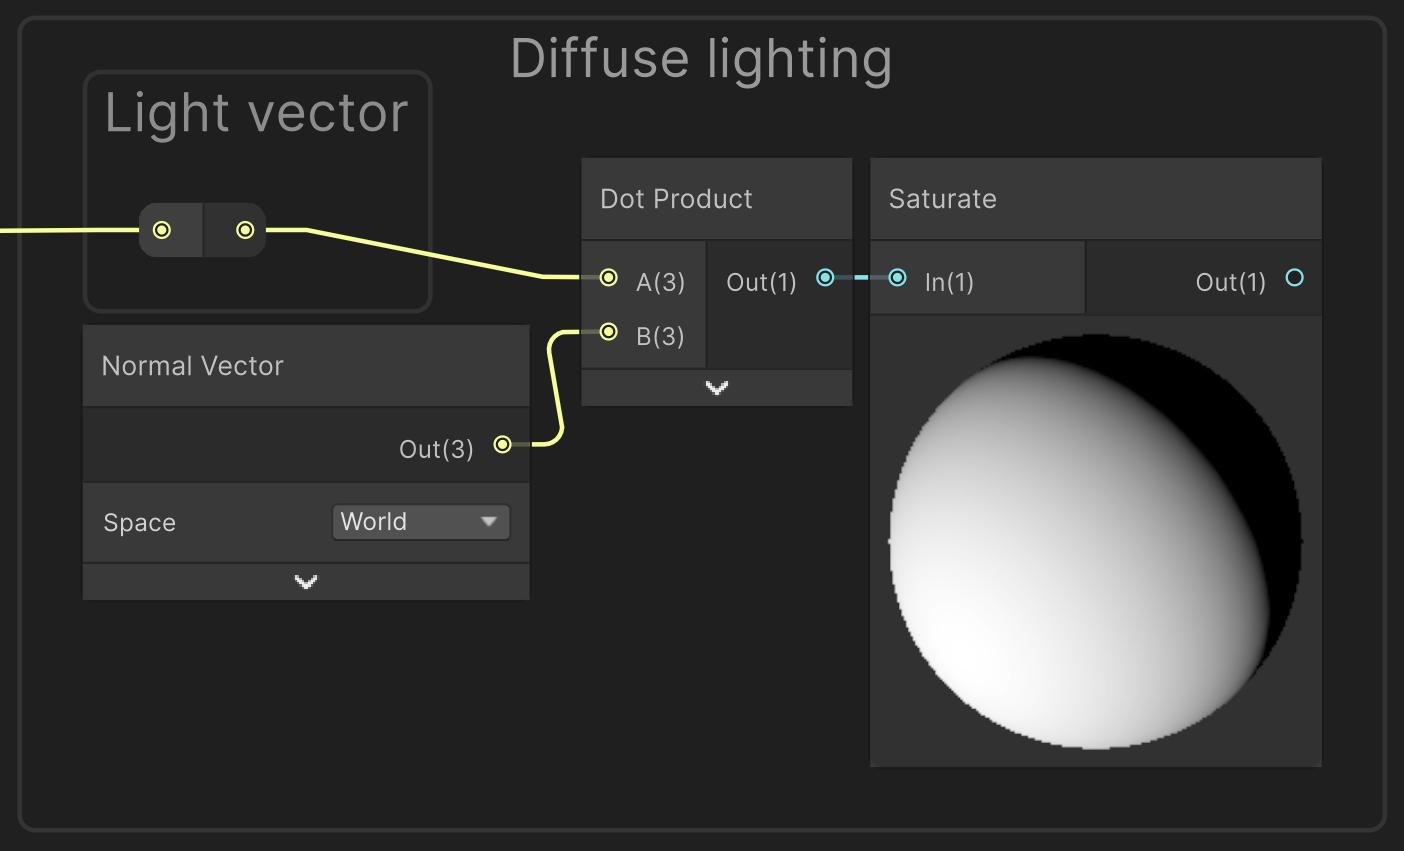
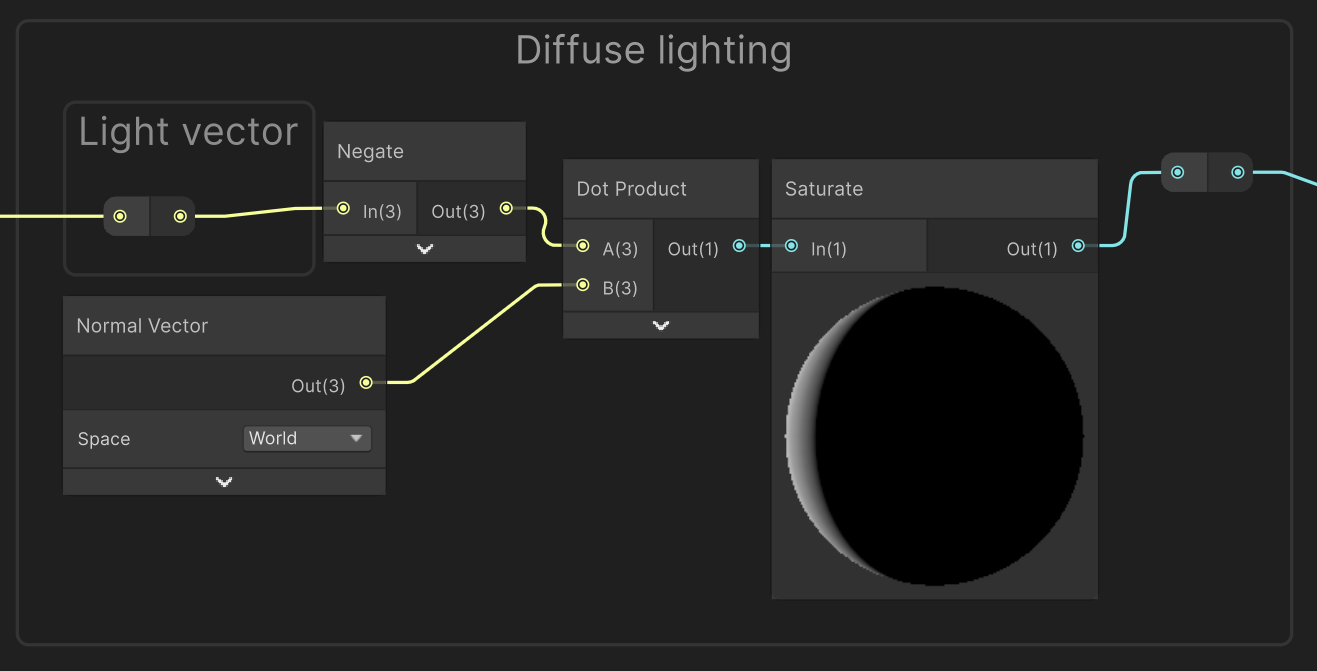
Finished fake orbitting light

diff --git a/src/projects/shaders/OrbittingLight.md b/src/projects/shaders/OrbittingLight.md
@@ -4,7 +4,7 @@
 
 Great lighting can add so much value to your 3D assets, but it can also be a bit tricky to get a precise lighting on some specific assets. For example, rim lights or hair highlights can be faked through shaders for better artistic control. In this article, we'll see how we can simulate the effect of a light orbitting around the mesh.
 
-![Image of the final shader result](MISSING)
+<center><img src="../../images/OrbittingLight/ResultShowcase.gif" alt="GIF of the final shader result" height="300"></center>
 
 ## How it works
 
@@ -24,24 +24,28 @@ Then normalize it to make sure we always have a unit vector.
 
 Now we have our light direction, we can simply compute it's contribution to the surface using simple phong lighting.
 
-<center><img src="../../images/OrbittingLight/LightDirectionNodes.png" alt="Nodes making up the orbitting light vector" height="300"></center>
-![GIF showing the resulting rotating vector]()
+<center><img src="../../images/OrbittingLight/LightDirectionNodes.png" alt="Nodes making up the orbitting light vector" height="200">
+<img src="../../images/OrbittingLight/RotatingVector.gif" alt="Rotating vector showing the generated light direction" height="200"></center>
 
 
 ### Phong lighting
 
-<center><img src="MISSING" alt="Image of the phong lighting result"></center>
+<center><img src="../../images/OrbittingLight/PhongLighting.png" alt="Image of the phong lighting result" height="200"></center>
 
 **Diffuse lighting**
 
-Given the surface normal N, we compute the incident diffuse light _Id_ by calculating the dot product of the normal with the negated light direction vector :
+Given the surface normal N, we compute the incident diffuse light _Id_ by calculating the dot product of the negated light direction vector with the normal :
 
 ```Id = Dot(N, -L)```
-<center><img src="../../images/OrbittingLight/DiffuseNodes.png" alt="Nodes for the dot product of the light and normal vectors" height="300"></center>
 
 We get Id in a [-1;1] range, since both N and L are of unit length.
 It should then be clamped between 0 and 1 to avoid negative light contribution.
-We can then multiply _Id_ by the diffuse light color.
+
+<center><img src="../../images/OrbittingLight/DiffuseNodes.png" alt="Nodes for the dot product of the light and normal vectors" height="300"></center>
+
+We can then multiply _Id_ by the diffuse light color. Here we also multiply it by the alpha to allow control over the diffuse lighting's contribution.
+
+<center><img src="../../images/OrbittingLight/DiffuseColorNodes.png" alt="Image of the diffuse color nodes" height="300"></center>
 
 <center><img src="../../images/OrbittingLight/DiffuseLightingShowcase.gif" alt="Image of the diffuse lighting result" height="300"></center>
 
@@ -49,17 +53,18 @@ We can then multiply _Id_ by the diffuse light color.
 
 Now, if we want it, we can add specular lighting.
 
-<center><img src="MISSING" alt="Image of specular lighting only, without diffuse"></center>
+<center><img src="../../images/OrbittingLight/SpecularLightingShowcase.gif" alt="Image of specular lighting only, without diffuse"></center>
 
 First we find the reflected light vector :
-```R = 2*Dot(-L, N) + L```
+```R = 2*Dot(-L, N)*N + L```
 
-<center><img src="MISSING" alt="Schematic of vector reflection"></center>
+<center><img src="../../images/OrbittingLight/ReflectedLightVectorNodes.png" alt="Nodes for vector reflection"></center>
 
-Then the dot product between R and the camera view vector C (which should be per pixel and taking FOV into account, rather than uniform for the camera object)
+<center><img src="../../images/OrbittingLight/ReflectedVectorSchematic.png" alt="Schematic of vector reflection"></center>
+
+Then the dot product between R and the camera view direction vector C.
 
 ```S = Dot(R, C)```
-<center><img src="MISSING" alt="Schematic of the light vector reflecting on a surface and hitting the camera"></center>
 
 And finally, we exponentiate it by the specular intensity Ks.
 
@@ -67,12 +72,15 @@ And finally, we exponentiate it by the specular intensity Ks.
 
 We should clamp this value to the [0;1] range to avoid undesired behaviour, multiply it by the specular color, and finally add it to the diffuse lighting.
 
-<center><img src="MISSING" alt="Image of the final phong lighting result"></center>
+<center><img src="../../images/OrbittingLight/SpecularLightingNodes.png" alt="Nodes making up the specular intensity value" height="200"></center>
+<center><img src="../../images/OrbittingLight/SpecularColorNodes.png" alt="Nodes making up the specular intensity value" height="200"></center>
+
+<center><img src="../../images/OrbittingLight/PhongLighting.png" alt="Image of the final phong lighting result"></center>
 
 ## The final effect
 
 Combining our orbitting light direction vector and phong lighting, we get a nice basis for a dynamic lighting effect. We can then extend it with further artistic choices to make it look better.
 
-<center><img src="MISSING" alt="Final result on different meshes"></center>
-<center><img src="MISSING" alt="Final result in a stylized artistic direction"></center>
+<center><img src="../../images/OrbittingLight/ResultShowcase.gif" alt="Final result on different meshes"></center>
+<center><img src="../../images/OrbittingLight/BatShowcase.gif" alt="Final result in a stylized artistic direction" height="700"></center>
 
